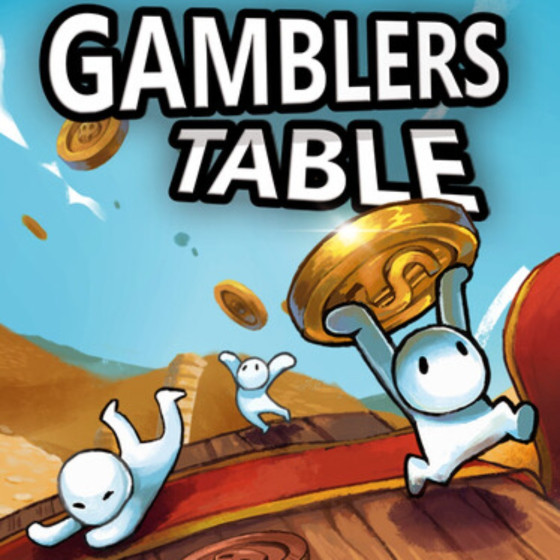
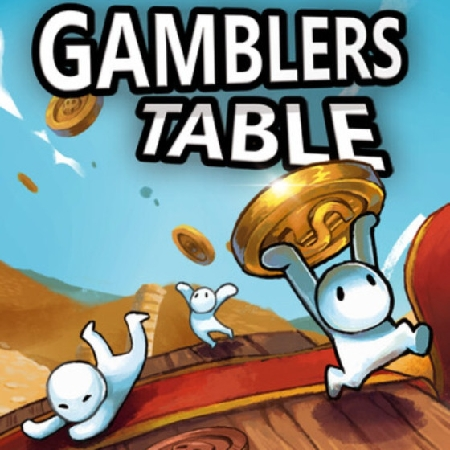
2.10

diff --git a/script.js b/script.js
@@ -244,3 +244,104 @@ function sortGames(field) {
     renderTable();
     setupGradeClicks();
 }
+
+// ===== LAZY LOADING С ВЫГРУЗКОЙ =====
+class ImageLazyLoader {
+    constructor() {
+        this.images = new Map(); // Храним данные об изображениях
+        this.observer = null;
+        this.init();
+    }
+    
+    init() {
+        // Создаём Observer
+        this.observer = new IntersectionObserver((entries) => {
+            entries.forEach(entry => {
+                const img = entry.target;
+                
+                if (entry.isIntersecting) {
+                    // Изображение появилось на экране - загружаем
+                    this.loadImage(img);
+                    this.observer.observe(img); // Продолжаем следить
+                } else {
+                    // Изображение ушло с экрана - выгружаем
+                    this.unloadImage(img);
+                }
+            });
+        }, {
+            rootMargin: '100px', // Загружаем заранее (100px до появления)
+            threshold: 0
+        });
+    }
+    
+    loadImage(img) {
+        if (img.dataset.src && !img.src) {
+            img.src = img.dataset.src;
+            img.classList.remove('lazy');
+            img.classList.add('loaded');
+        }
+    }
+    
+    unloadImage(img) {
+        // Сохраняем src в data-атрибут
+        if (img.src && !img.dataset.src) {
+            img.dataset.src = img.src;
+        }
+        // Очищаем src (изображение выгружается из памяти)
+        img.src = '';
+        img.classList.remove('loaded');
+        img.classList.add('lazy');
+    }
+    
+    observe(img) {
+        if (img) {
+            this.observer.observe(img);
+        }
+    }
+    
+    unobserve(img) {
+        if (img) {
+            this.observer.unobserve(img);
+        }
+    }
+}
+
+// Создаём экземпляр
+const lazyLoader = new ImageLazyLoader();
+
+// ===== МОДИФИЦИРОВАННАЯ renderTable() =====
+function renderTable() {
+    const tbody = document.getElementById('games-table-body');
+    if (!tbody) return;
+    
+    tbody.innerHTML = '';
+
+    gamesData.forEach(game => {
+        const row = document.createElement('tr');
+        row.innerHTML = `
+            <td>
+                <img alt="${game.name}" 
+                     class="game-cover lazy"
+                     onerror="this.src='covers/no-image.jpg'">
+            </td>
+            <td>${game.year}</td>
+            <td>${game.type}</td>
+            <td>${game.genre}</td>
+            <td>${game.name}</td>
+            <td>
+                <span class="grade-badge grade-${game.grade.toLowerCase().replace('+', '-plus')}" 
+                      data-id="${game.id}" 
+                      data-review="${game.review}">
+                    ${game.grade}
+                </span>
+            </td>
+        `;
+        
+        const img = row.querySelector('.game-cover');
+        img.dataset.src = game.cover; // Сохраняем путь
+        tbody.appendChild(row);
+        
+        // Начинаем следить за изображением
+        lazyLoader.observe(img);
+    });
+}

diff --git a/style.css b/style.css
@@ -318,12 +318,24 @@ body {
     background-color: #2a2640;
 }
 
-/* Обложка игры */
 .game-cover {
-    width: 108px;
-    height: 108px;
-    object-fit: cover;
-    border: 2px solid #525963;
+    transition: opacity 0.3s ease;
+    opacity: 0;
+}
+
+.game-cover.loaded {
+    opacity: 1;
+}
+
+.game-cover.lazy {
+    background: linear-gradient(90deg, #1A1626 25%, #242638 50%, #1A1626 75%);
+    background-size: 200% 100%;
+    animation: loading 1.5s infinite;
+}
+
+@keyframes loading {
+    0% { background-position: 200% 0; }
+    100% { background-position: -200% 0; }
 }
 
 /* Бейджи оценок */

diff --git a/resources/gfx/covers/convetor.py b/resources/gfx/covers/convetor.py
@@ -1,0 +1,58 @@
+from PIL import Image
+import os
+import glob
+
+def convert_png_to_jpg(directory=None, quality=85):
+    # 🔑 Если папка не указана, используем папку самого скрипта
+    if directory is None:
+        directory = os.path.dirname(os.path.abspath(__file__))
+    
+    print(f"🔍 Ищем PNG в папке: {directory}")
+    
+    # Ищем все PNG файлы только в этой папке
+    png_files = glob.glob(os.path.join(directory, '*.png'))
+    
+    if not png_files:
+        print("❌ PNG файлы не найдены. Проверь путь или расширения файлов.")
+        return
+    
+    print(f"✅ Найдено {len(png_files)} файлов. Начинаю конвертацию...\n")
+    
+    converted = 0
+    for png_path in png_files:
+        try:
+            img = Image.open(png_path)
+            
+            # JPG не поддерживает прозрачность. Конвертируем в RGB с белым фоном
+            if img.mode in ('RGBA', 'LA', 'P'):
+                background = Image.new('RGB', img.size, (255, 255, 255))
+                if img.mode == 'P':
+                    img = img.convert('RGBA')
+                background.paste(img, mask=img.split()[-1] if img.mode == 'RGBA' else None)
+                img = background
+            elif img.mode != 'RGB':
+                img = img.convert('RGB')
+            
+            # Формируем путь для JPG
+            jpg_path = os.path.splitext(png_path)[0] + '.jpg'
+            
+            # Сохраняем
+            img.save(jpg_path, 'JPEG', quality=quality, optimize=True)
+            
+            # Статистика
+            png_size = os.path.getsize(png_path) / 1024
+            jpg_size = os.path.getsize(jpg_path) / 1024
+            savings = ((png_size - jpg_size) / png_size) * 100
+            
+            print(f"✅ {os.path.basename(png_path)} → {os.path.basename(jpg_path)}")
+            print(f"   {png_size:.1f} KB → {jpg_size:.1f} KB (экономия {savings:.1f}%)\n")
+            converted += 1
+            
+        except Exception as e:
+            print(f"❌ Ошибка с {os.path.basename(png_path)}: {e}\n")
+    
+    print(f"🎉 Готово! Обработано {converted} из {len(png_files)} файлов.")
+    print("💡 Не забудь заменить .png на .jpg в коде сайта!")
+
+if __name__ == '__main__':
+    convert_png_to_jpg(quality=85)
